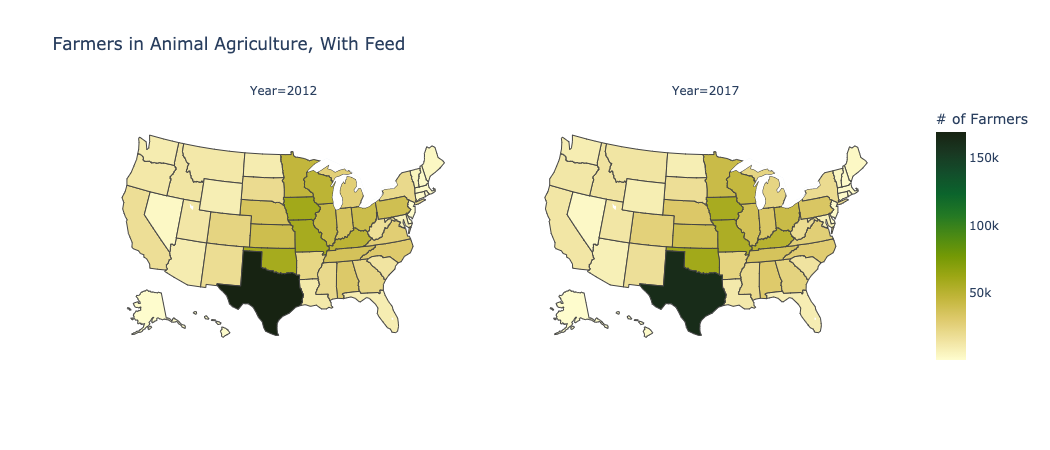
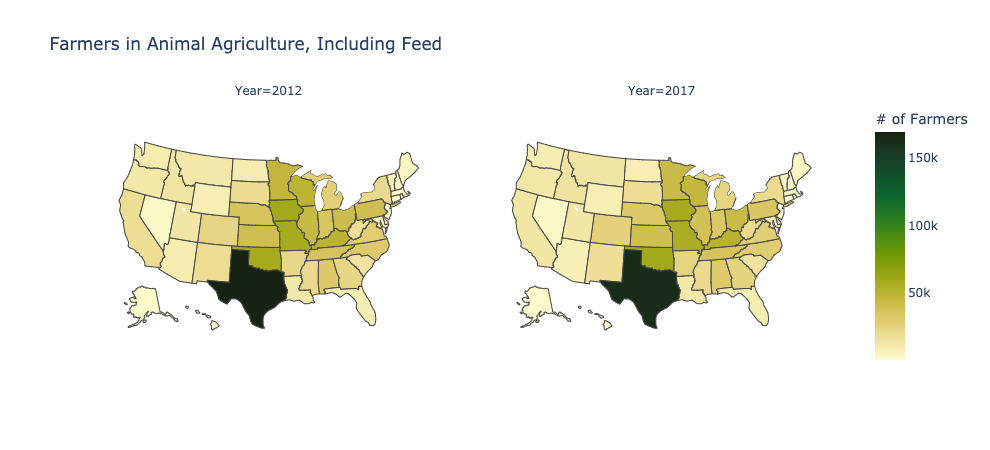
added maps to readme

diff --git a/README.md b/README.md
@@ -40,7 +40,35 @@ For each state, we estimate the number of family farmers by using the "FARM OPER
 
 ## Exporatory Data Analysis
 
+To understand the geographic distribution of the number of family farmers in animal agriculture, we visualize the raw number of family farmers in the two plots below, without and with feed, respectively.
 
+![](plots/num_farmers_without_feed.png) 
+
+![](plots/num_farmers_with_feed.png)
+
+To better understand how the number of farmers compares to the overall population in each state, we also visualized the number of farmers per person in each state, via the equation below:
+
+<p align="center">
+    <img src="https://latex.codecogs.com/svg.image?\text{Num&space;Animal&space;Farmers&space;per&space;Person}&space;=&space;\frac{\text{Num&space;of&space;Family&space;Farmers}}{\text{Total&space;Population}}" title="\text{Num Animal Farmers per Person} = \frac{\text{Num of Family Farmers}}{\text{Total Population}}" />
+</p>
+
+Again, we visualize this metric when excluding and including feed commodities, respectively.
+
+![](plots/farmers_per_person_without_feed.png) 
+
+![](plots/farmers_per_person_with_feed.png)
+
+To better understand how the number of farmers compares to the number of voters in each state, we also visualized the number of farmers per registered voter in each state, via the equation below:
+
+<p align="center">
+    <img src="https://latex.codecogs.com/svg.image?\text{Num&space;Animal&space;Farmers&space;per&space;Person}&space;=&space;\frac{\text{Num&space;of&space;Family&space;Farmers}}{\text{Total&space;Registered&space;Voters}}" title="\text{Num Animal Farmers per Person} = \frac{\text{Num of Family Farmers}}{\text{Total Registered Voters}}" />
+</p>
+
+Again, we visualize this metric when excluding and including feed commodities, respectively.
+
+![](plots/farmers_per_voter_without_feed.png) 
+
+![](plots/farmers_per_voter_with_feed.png) 
 
 ## Repository Stucture
 
@@ -68,8 +96,8 @@ For each state, we estimate the number of family farmers by using the "FARM OPER
         - The 2018 data can be found ([here](https://www.census.gov/data/tables/time-series/demo/voting-and-registration/p20-583.html)), in table 4a
         - The 2012 data can be found ([here](https://www.census.gov/data/tables/2012/demo/voting-and-registration/p20-568.html)), in table 4a
     - The U.S. Census Bureau only has data available every 2 years, so the 2018 data is used as an estimate for the 2017 voter and population numbers
-- `family_farmer_estimates.xlsx`:
-    - Excel file containing the estimates for the number of family farmers involved in animal agriculture (**this is the file with the relevant estimates**)
+- `family_farmer_estimates_state_level.xlsx`:
+    - Excel file containing the estimates for the number of family farmers involved in animal agriculture (**this is the first with the relevant estimates**).
         - **Rows (Granularity)**: State
         - **Columns**: 
             - State
@@ -78,6 +106,25 @@ For each state, we estimate the number of family farmers by using the "FARM OPER
         - **Note**: voter and population totals are multiplied by 1000 to reflect the true raw values.
     - Only contains estimates for the years 2012, 2017, as those are the only years with census data from the NASS.
     - Only contains population and voting figures for the years 2012, 2018, as those are the years closest to the relevant NASS years (2017, 2012).
+- `family_farmer_estimates_state_year_level.xlsx`:
+    - Excel file containing the estimates for the number of family farmers involved in animal agriculture (**this is the second file with the relevant estimates**).
+    - This file differs from `family_farmer_estimates_state_level.xlsx` in that there are two rows for each state, for both 2017 and 2012 (including this year column allows for additional analysis and plotting).
+        - **Rows (Granularity)**: (State, Year) combination
+        - **Columns**: 
+            - State
+            - Agriculture_share_without_feed, Agriculture_share_with_feed, Number_of_Family_Farmers, Number_of_Animal_Farmers_without_feed, Number_of_Animal_Farmers_with_feed
+            - Total_population, Total_Citizen_Population, Total_Registered, Percent_Registered_Total, Total_Registered_Margin_of_Error, Percent_Registered_Citizen, Citizen_Registered_Margin_of_Error, Total_Voted, Percent_Voted_Total, Total_Voted_Margin_of_Error, Percent_Voted_Citizen, Citizen_Voted_Margin_of_Error
+        - **Note**: voter and population totals are multiplied by 1000 to reflect the true raw values.
+    - Only contains estimates for the years 2012, 2017, as those are the only years with census data from the NASS.
+    - Only contains population and voting figures for the years 2012, 2018, as those are the years closest to the relevant NASS years (2017, 2012).
+
+`plots/`: Folder than contains the png files for the following plots
+- `num_farmers_without_feed.png`
+- `num_farmers_with_feed.png`
+- `farmers_per_person_without_feed.png`
+- `farmers_per_person_with_feed.png`
+- `farmers_per_voter_without_feed.png`
+- `farmers_per_voter_with_feed.png`
 
 `compute_ranchers.py`: Python file that performs data cleaning and calculations
 - Reads in `data\ers_usda.xlsx`, calculates agricultural share (with and without feed) for each state
@@ -85,6 +132,10 @@ For each state, we estimate the number of family farmers by using the "FARM OPER
 - Calculates the number of animal farmers (with and without feed)
 - Reads in `data\census_population_and_voting.xlsx`, joins this census data from 2018 and 2012 with the joined data (created in above steps)
 - Writes the estimates to excel file (`data\family_farmer_estimates.xlsx`)
+
+`USDA_data_analysis.ipynb`: Jupyter Notebook that computes normalized metrics and creates the plots in the Exploratory Data Analysis section, using python and the ([plotly](https://plotly.com/)) library
+- The plots are more interactive (via hovering over different states) when viewed in this jupyter notebook. 
+- These plots could also be deployed as interactive web apps via Dash or Flask.
 
 `run.sh`: Bash script that installs necessary libraries (pandas, numpy, openpyxl) and executes `compute_ranchers.py`
 
@@ -100,6 +151,9 @@ For each state, we estimate the number of family farmers by using the "FARM OPER
     ```
     bash run.sh
     ```
+
+5. (Optional) Modify the code in `USDA_data_analysis.ipynb` to generate maps/plots with different metrics.
+6. (Optional) Modify the code in `USDA_data_analysis.ipynb` to deploy the maps/plots as Dash or Flask web apps.
 
 ---
 
